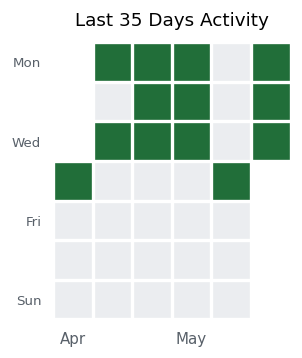
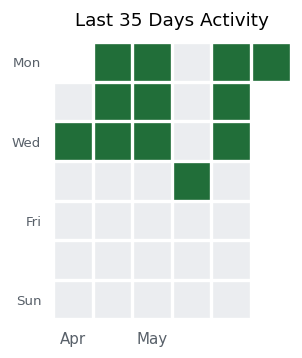
Lab Entry: 2026-05-18

Changed region(s): [[0.5662, 0.1229, 0.9834, 0.5838], [0.1788, 0.2151, 0.447, 0.5838], [0.447, 0.9218, 0.6854, 0.9832]]

diff --git a/README.md b/README.md
@@ -1,7 +1,7 @@
-# 🏃 平均週 2.6 回でつーがく中！
+# 🏃 平均週 2.4 回でつーがく中！
 <p align="center">
   <img src="./monthly_report.png" alt="Attendance Calendar">
 </p>
 
 ___
-*最終更新: 2026-05-13*
+*最終更新: 2026-05-18*
